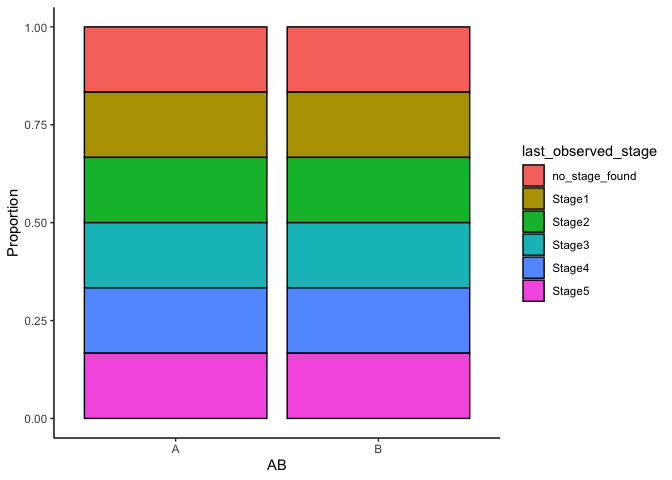
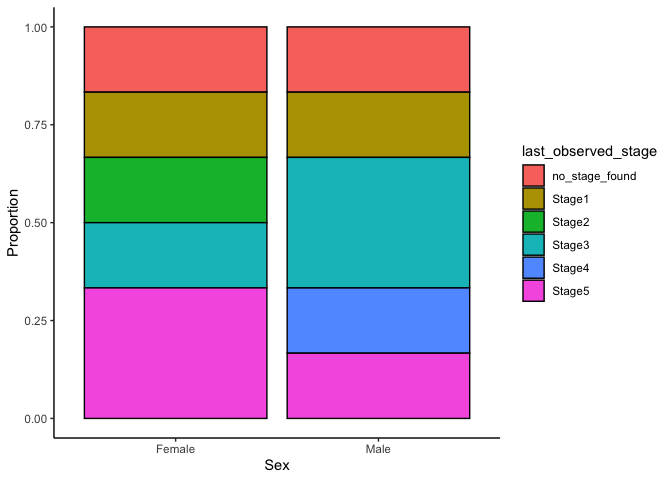
Updated README example for visualising_distribution()

diff --git a/README.md b/README.md
@@ -122,22 +122,39 @@ visualising_distribution(data = assigned_stages, stage = last_observed_stage)
 
 # With factors
 data_with_factor = dplyr::tribble(
-  ~ID, ~ Stage1, ~Stage2, ~Stage3, ~Stage4, ~Stage5, ~last_observed_stage, ~AB,
-  1, "01/01/2000", NA, NA, NA, NA, "Stage1", "A",
-  2, "01/01/2000", "02/01/2000", NA, NA, NA, "Stage2", "A",
-  3, "01/01/2000", "02/01/2000", "03/01/2000", NA, NA, "Stage3", "A",
-  4, "01/01/2000", "02/01/2000", "03/01/2000", "04/01/2000", NA, "Stage4", "A",
-  5, "01/01/2000", "02/01/2000", "03/01/2000", "04/01/2000", "05/01/2000", "Stage5", "A",
-  6, NA, NA, NA, NA, NA, "no_stage_found", "A",
-  1, "01/01/2000", NA, NA, NA, NA, "Stage1", "B",
-  2, "01/01/2000", "02/01/2000", NA, NA, NA, "Stage2", "B",
-  3, "01/01/2000", "02/01/2000", "03/01/2000", NA, NA, "Stage3", "B",
-  4, "01/01/2000", "02/01/2000", "03/01/2000", "04/01/2000", NA, "Stage4", "B",
-  5, "01/01/2000", "02/01/2000", "03/01/2000", "04/01/2000", "05/01/2000", "Stage5", "B",
-  6, NA, NA, NA, NA, NA, "no_stage_found", "B"
+  ~ID, ~ Stage1, ~Stage2, ~Stage3, ~Stage4, ~Stage5, ~last_observed_stage, ~Sex,
+  1, "01/01/2000", NA, NA, NA, NA, "Stage1", "Male",
+  2, "01/01/2000", "02/01/2000", "03/01/2000", NA, NA, "Stage3", "Male",
+  3, "01/01/2000", "02/01/2000", "03/01/2000", NA, NA, "Stage3", "Male",
+  4, "01/01/2000", "02/01/2000", "03/01/2000", "04/01/2000", NA, "Stage4", "Male",
+  5, "01/01/2000", "02/01/2000", "03/01/2000", "04/01/2000", "05/01/2000", "Stage5", "Male",
+  6, NA, NA, NA, NA, NA, "no_stage_found", "Male",
+  1, "01/01/2000", NA, NA, NA, NA, "Stage1", "Female",
+  2, "01/01/2000", "02/01/2000", NA, NA, NA, "Stage2", "Female",
+  3, "01/01/2000", "02/01/2000", "03/01/2000", NA, NA, "Stage3", "Female",
+  4, "01/01/2000", "02/01/2000", "03/01/2000", "04/01/2000", "05/01/2000", "Stage5", "Female",
+  5, "01/01/2000", "02/01/2000", "03/01/2000", "04/01/2000", "05/01/2000", "Stage5", "Female",
+  6, NA, NA, NA, NA, NA, "no_stage_found", "Female"
 )
 
-visualising_distribution(data = data_with_factor, stage = last_observed_stage, factor = AB)
+show(data_with_factor)
+#> # A tibble: 12 × 8
+#>       ID Stage1     Stage2     Stage3    Stage4 Stage5 last_observed_stage Sex  
+#>    <dbl> <chr>      <chr>      <chr>     <chr>  <chr>  <chr>               <chr>
+#>  1     1 01/01/2000 <NA>       <NA>      <NA>   <NA>   Stage1              Male 
+#>  2     2 01/01/2000 02/01/2000 03/01/20… <NA>   <NA>   Stage3              Male 
+#>  3     3 01/01/2000 02/01/2000 03/01/20… <NA>   <NA>   Stage3              Male 
+#>  4     4 01/01/2000 02/01/2000 03/01/20… 04/01… <NA>   Stage4              Male 
+#>  5     5 01/01/2000 02/01/2000 03/01/20… 04/01… 05/01… Stage5              Male 
+#>  6     6 <NA>       <NA>       <NA>      <NA>   <NA>   no_stage_found      Male 
+#>  7     1 01/01/2000 <NA>       <NA>      <NA>   <NA>   Stage1              Fema…
+#>  8     2 01/01/2000 02/01/2000 <NA>      <NA>   <NA>   Stage2              Fema…
+#>  9     3 01/01/2000 02/01/2000 03/01/20… <NA>   <NA>   Stage3              Fema…
+#> 10     4 01/01/2000 02/01/2000 03/01/20… 04/01… 05/01… Stage5              Fema…
+#> 11     5 01/01/2000 02/01/2000 03/01/20… 04/01… 05/01… Stage5              Fema…
+#> 12     6 <NA>       <NA>       <NA>      <NA>   <NA>   no_stage_found      Fema…
+
+visualising_distribution(data = data_with_factor, stage = last_observed_stage, factor = Sex)
 ```
 
 <img src="man/figures/README-visualising_distribution() example with factor-1.png" width="100%" />
